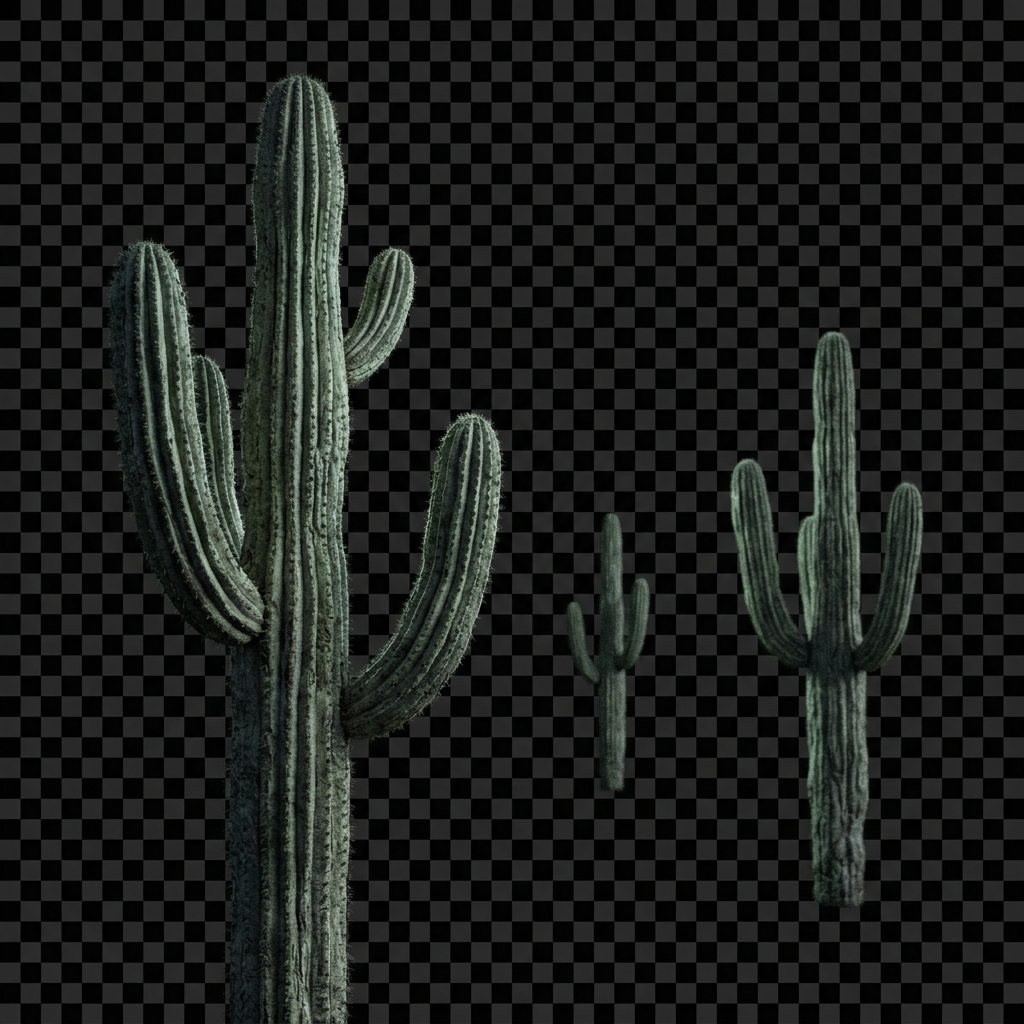
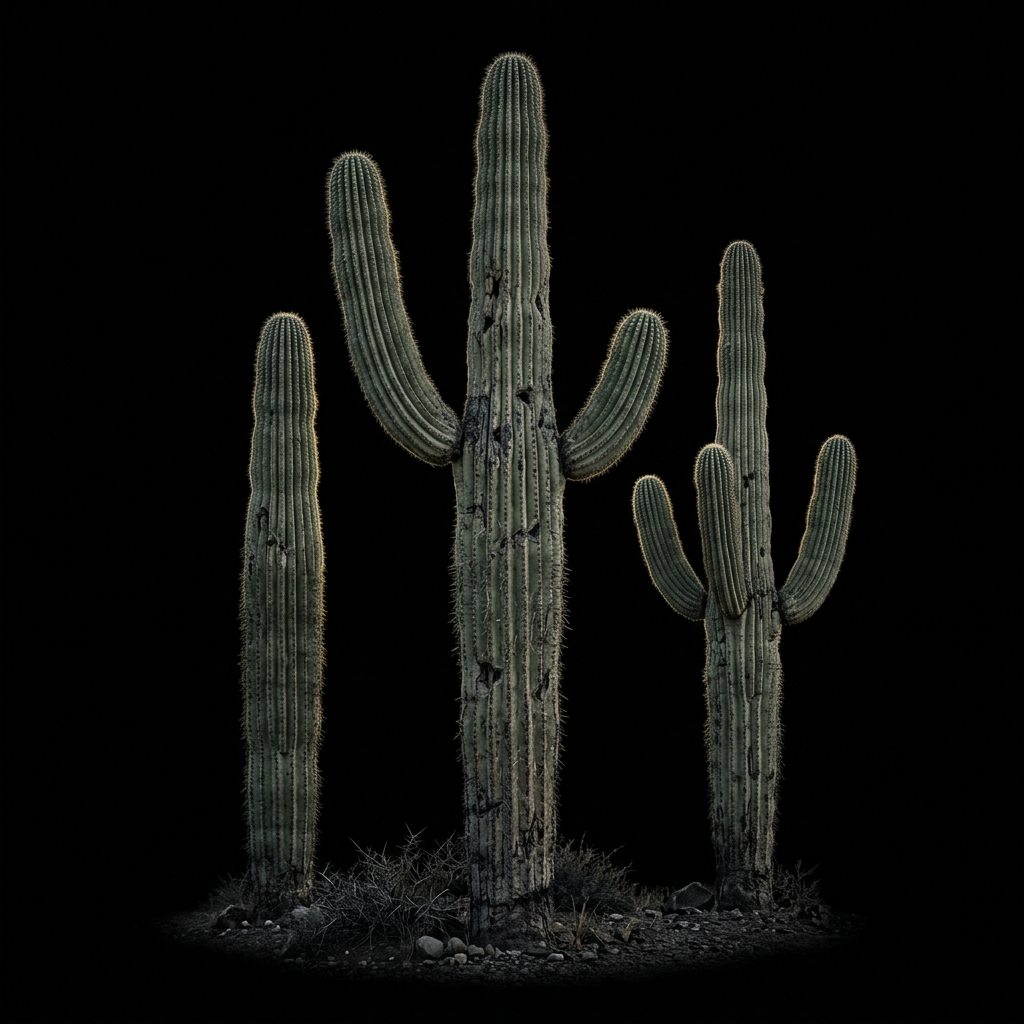
Fix checkerboard patterns: Replace transparent-rendered assets with solid black background renders and apply screen blend mode

diff --git a/src/components/hero/CactiLayer.tsx b/src/components/hero/CactiLayer.tsx
@@ -20,7 +20,7 @@ export default function CactiLayer() {
           src="/hero/cacti.png"
           alt=""
           fill
-          className="object-contain object-bottom object-left"
+          className="object-contain object-bottom object-left mix-blend-screen"
           sizes="(max-width: 768px) 20vw, 250px"
           quality={75}
         />
@@ -32,7 +32,7 @@ export default function CactiLayer() {
           src="/hero/cacti.png"
           alt=""
           fill
-          className="object-contain object-bottom object-right scale-x-[-1]"
+          className="object-contain object-bottom object-right scale-x-[-1] mix-blend-screen"
           sizes="(max-width: 768px) 18vw, 220px"
           quality={75}
         />

diff --git a/src/components/hero/PyramidsLayer.tsx b/src/components/hero/PyramidsLayer.tsx
@@ -17,7 +17,7 @@ export default function PyramidsLayer() {
         src="/hero/pyramids.png"
         alt=""
         fill
-        className="object-contain object-bottom"
+        className="object-contain object-bottom mix-blend-screen"
         sizes="(max-width: 768px) 90vw, 800px"
         quality={80}
       />
